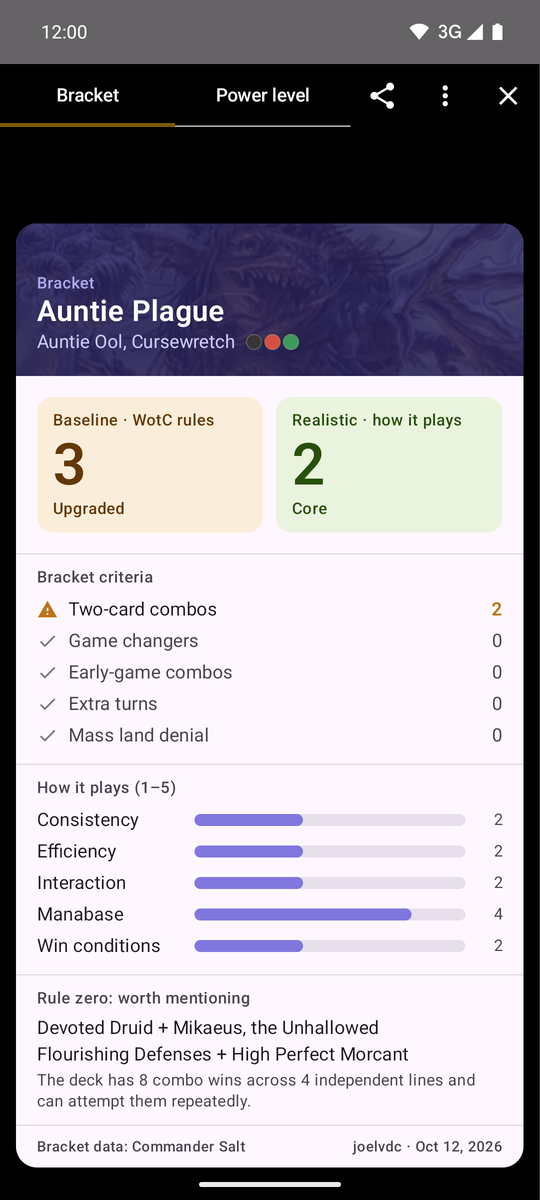
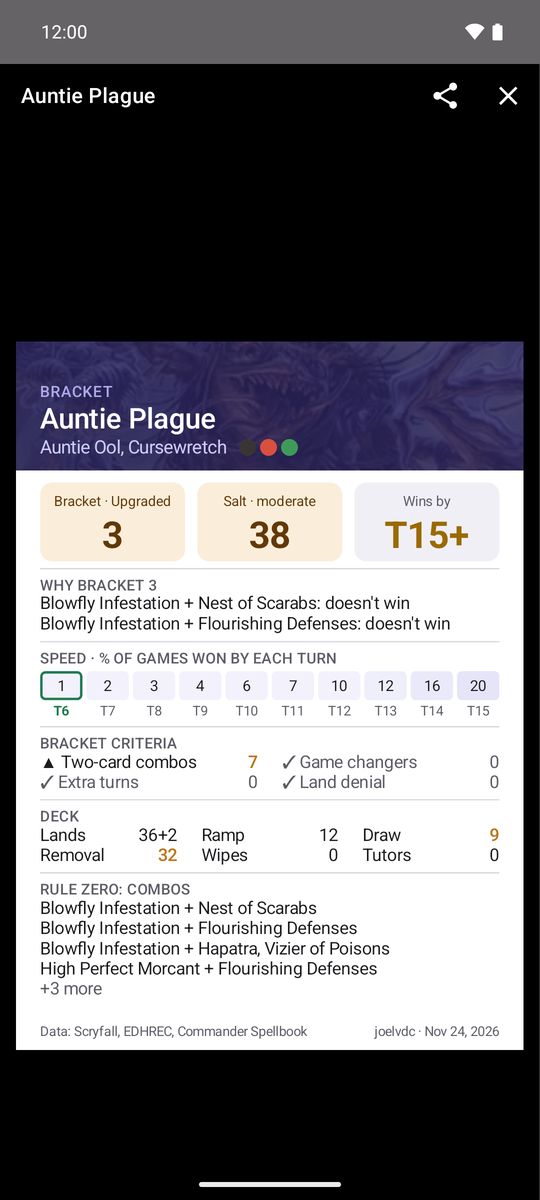
README: new decks and bracket card screenshots, choose which decks to print

diff --git a/README.md b/README.md
@@ -6,11 +6,11 @@ and the website stay in sync through your MTG Trader account.
 
 | Trade | Collection | Scan tab | Commander decks |
 |:---:|:---:|:---:|:---:|
-| <img src="docs/screenshots/trade.png" width="200" alt="A fair trade with the value of both sides compared"> | <img src="docs/screenshots/collection.png" width="200" alt="The collection sorted by value, with binder filters and price trends"> | <img src="docs/screenshots/scan.png" width="200" alt="Scanned cards waiting to be sent to a binder, trade or deck"> | <img src="docs/screenshots/decks.png" width="200" alt="Commander decks with brackets and win turns"> |
+| <img src="docs/screenshots/trade.png" width="200" alt="A fair trade with the value of both sides compared"> | <img src="docs/screenshots/collection.png" width="200" alt="The collection sorted by value, with binder filters and price trends"> | <img src="docs/screenshots/scan.png" width="200" alt="Scanned cards waiting to be sent to a binder, trade or deck"> | <img src="docs/screenshots/decks.png" width="200" alt="Commander decks with their bracket and win turn, fastest first"> |
 
 | Games | Life tracker | Bracket card | Collection stats |
 |:---:|:---:|:---:|:---:|
-| <img src="docs/screenshots/games.png" width="200" alt="The Games tab: last games, who won and stats"> | <img src="docs/screenshots/lifetracker.png" width="200" alt="The life tracker for four players, each panel facing its player"> | <img src="docs/screenshots/bracket.png" width="200" alt="The app's bracket card: bracket, salt, win turn, criteria and combos"> | <img src="docs/screenshots/stats.png" width="200" alt="Collection stats: the color pie and color identities"> |
+| <img src="docs/screenshots/games.png" width="200" alt="The Games tab: last games, who won and stats"> | <img src="docs/screenshots/lifetracker.png" width="200" alt="The life tracker for four players, each panel facing its player"> | <img src="docs/screenshots/bracket.png" width="200" alt="The bracket card: bracket, salt, win turn, speed, criteria, deck counts and combos"> | <img src="docs/screenshots/stats.png" width="200" alt="Collection stats: the color pie and color identities"> |
 
 ## Install
 [<img src="https://raw.githubusercontent.com/ImranR98/Obtainium/main/assets/graphics/badge_obtainium.png" alt="Get it on Obtainium" height="54">](https://apps.obtainium.imranr.dev/redirect?r=obtainium://add/https://github.com/joelvdc/MTG-trading-tracker)
@@ -95,7 +95,7 @@ turn on two-step login with an authenticator app.
   cards to add and to remove, matched by name so printings don't matter.
 - A **bracket card** per deck for rule zero (bracket, salt, win turn, criteria, the deck's lands, ramp, draw, removal,
   wipes and tutors, game changers and combos), the same in the app and on the website, printed nine to an A4 page
-  with cut marks; cards you're missing (to the wishlist),
+  with cut marks, for the decks you tick; cards you're missing (to the wishlist),
   and retiring decks you no longer play.
 
 **Games**
